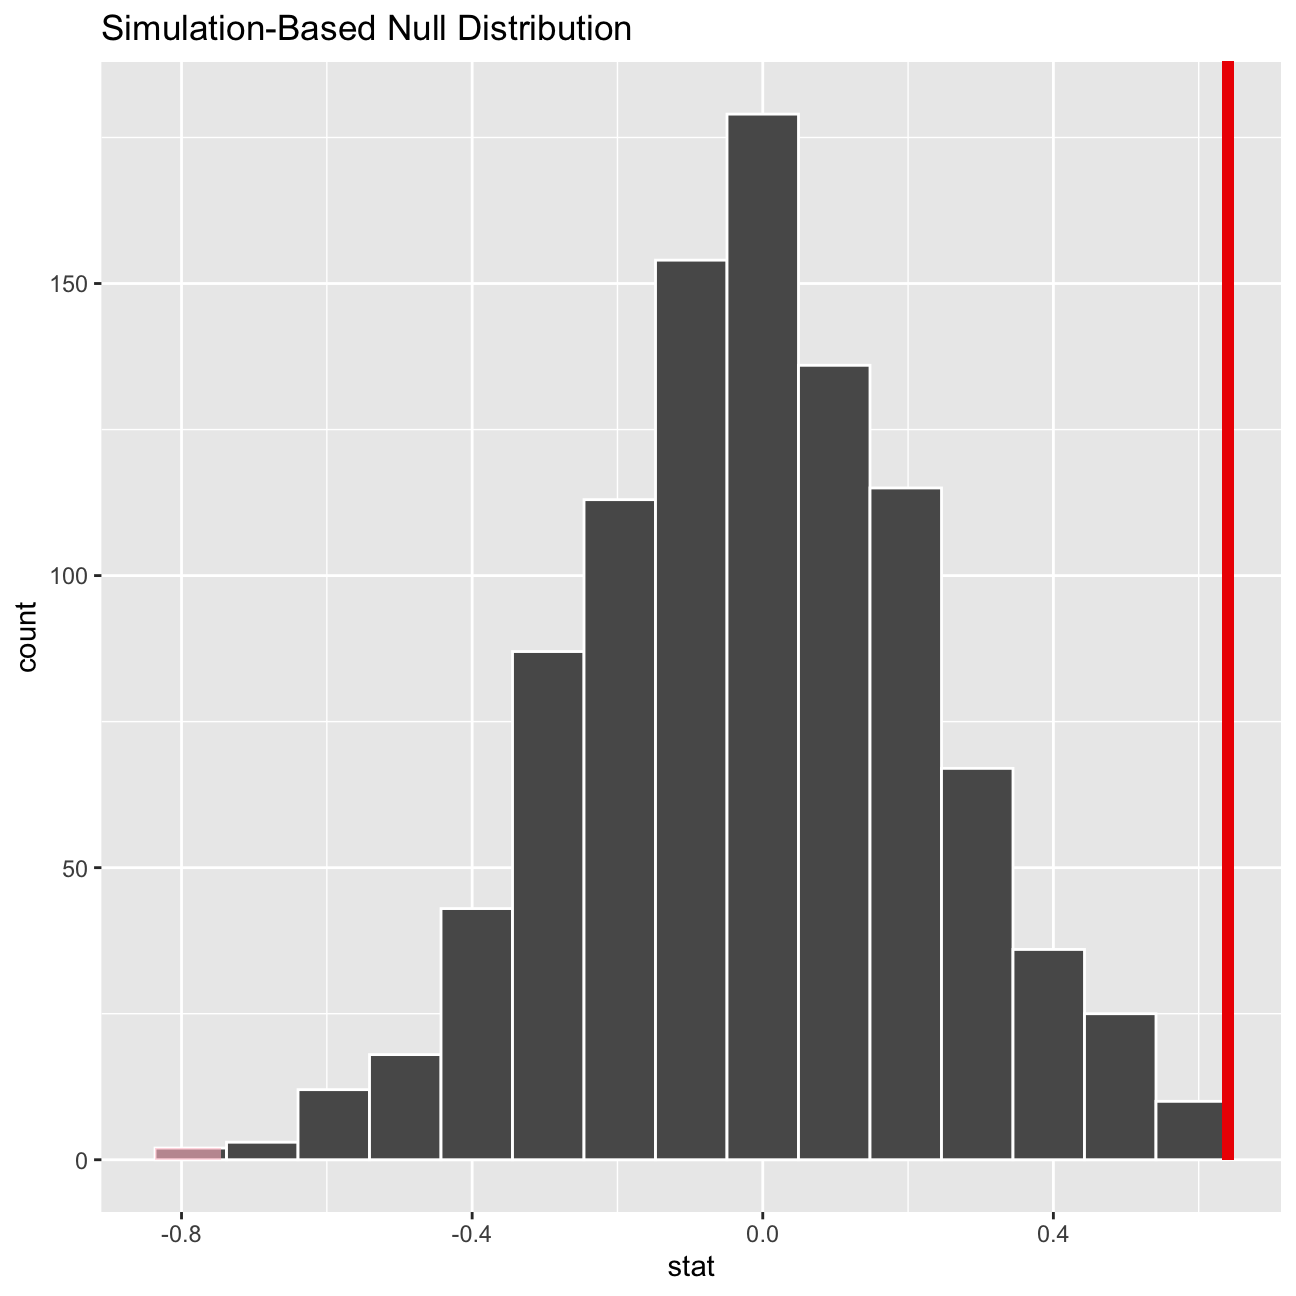
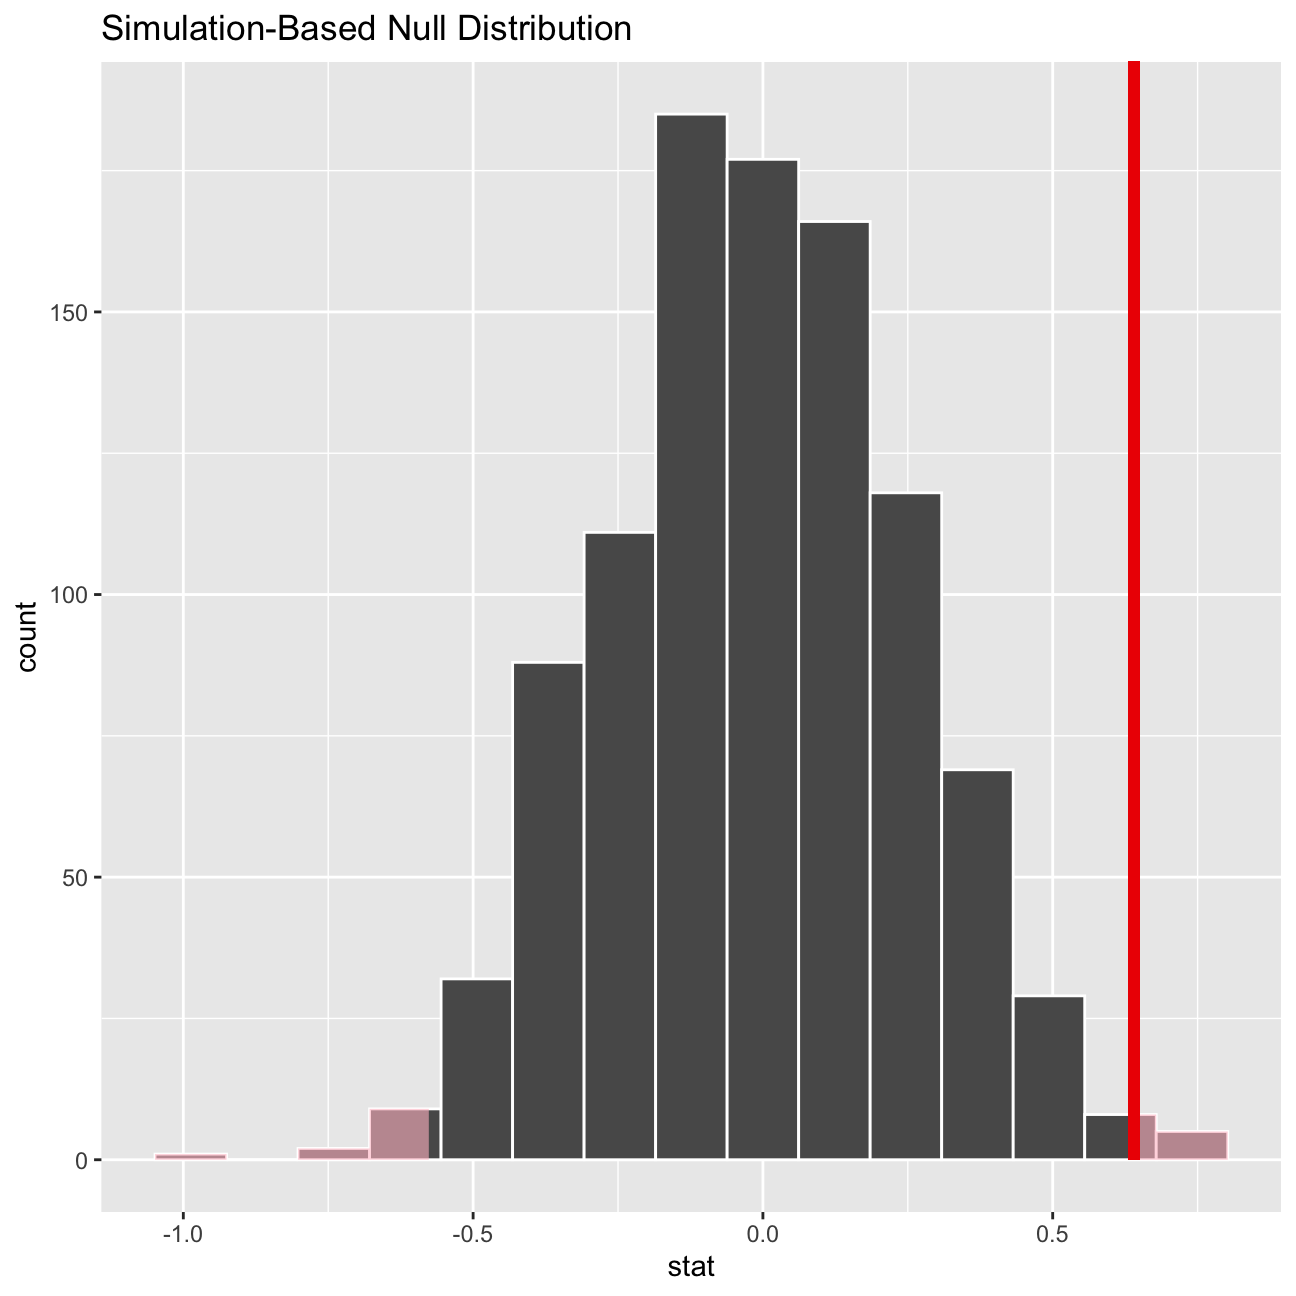
Changes project 4

diff --git a/content/projects/project4.html b/content/projects/project4.html
@@ -7,7 +7,7 @@ description: ""
 draft: false
 keywords: ""
 slug: project4
-title: "IMDB ratings: Differences between directors "
+title: "IMDB ratings: Differences between directors"
 image: directors.png
 ---
 
@@ -99,7 +99,7 @@ ratings_null%&gt;%
 <pre><code>## # A tibble: 1 x 1
 ##   p_value
 ##     &lt;dbl&gt;
-## 1       0</code></pre>
+## 1   0.016</code></pre>
 <p>In both cases, since p-value is smaller than 0.05, we will reject the null hypothesis and accept the explanation that the reason between the difference of sample mean of ratings of Steven Spielberg and Tim Burton is not due to sheer luck but some other factors.</p>
 <div id="details" class="section level1">
 <h1>Details</h1>
